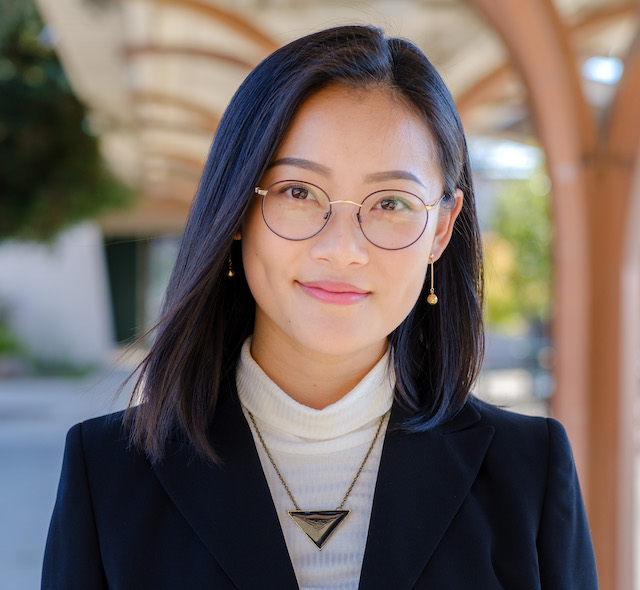
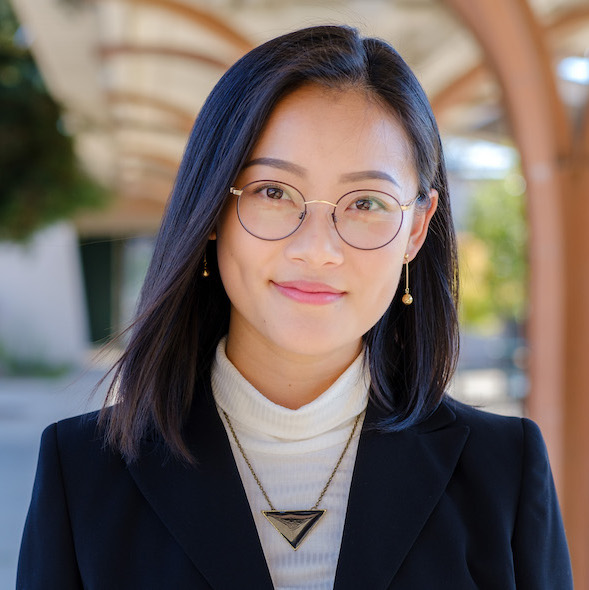
Update speakers and committee member pic

diff --git a/_pages/workshops.md b/_pages/workshops.md
@@ -6,7 +6,9 @@ sidebar:
   nav: "workshops"
 ---
 
-As part of the Learning Track, you can attend hands-on workshops to help you overcome the barriers to making open source contributions. You will have a chance to attend technical and non-technical workshops and walk away with skills you can leverage in open source contributions.
+Open Source Day hands-on workshops are dedicated to help you overcome barriers to contributing to open source. 
+
+You will have a chance to attend technical and non-technical workshops and walk away with skills you can leverage in open source contributions.
 
 
 ## Build production ready data engineering pipeline using Open Source Framework (Kedro)
@@ -23,6 +25,14 @@ Bye-bye Jupyter Notebook! Are you working on a Machine Learning project? Do you 
     Bio: Lingyi is a data engineer @QuantumBlack, AI by Mckinsey. Her primary focus is to build reliable and sustainable data solutions to enable ML and AI across different sectors, such as Basic materials, Telecom, Retail, Pharma. She is passionate about solving data challenges, such as big data, geo-spatial data, time-series data. Her current learning interest is MLOps, DevOps, and DataOps on cloud.
 </details>
 
+## Deploy Your First Smart Contract
+
+<details>
+  <summary>This workshop will be led by: Anastasia Lalamentik</summary>
+
+  <br>
+    Bio: Anastasia Lalamentik
+</details>
 
 ## Don’t Sacrifice Security When Coding Your Next Game-Changing App!
 
@@ -56,7 +66,7 @@ Git is a powerful software development tool that allows people from all over the
 Databases are crucial to modern applications today, and they come in many flavors. Even though they are widely used, like other system software they are often viewed as black boxes. In this workshop, we will take a peek under the covers of a mission-critical enterprise-grade open-source database system and implement a small feature together using test-drive development (TDD), GitHub, and raise a pull request.
 
 <details>
-  <summary>This workshop will be led by: Alexandra Wang</summary>
+  <summary>This workshop will be led by: Alexandra Wang and Ashuka Xue</summary>
 
   <br>
     Bio: Alex is a Software Engineer at VMware. She works on the Greenplum open source MPP database. In the past five years she has worked in many areas of the database kernel, including query optimization and execution, catalog and storage, distributed transaction, partitioning, WAL replication, etc., as well as building tools and infrastructure for CI/CD, performance testing and release engineering. Alex has worked with many teams and has led the query performance acceleration team. She is experienced in cooperating cross-team/cross-geo and is working closely with product managers, engineering managers, field engineers and technical writers. She loves TDD and pair programming. Alex holds an MS in Information Technology from Carnegie Mellon University School of Computer Science.
@@ -65,7 +75,13 @@ Databases are crucial to modern applications today, and they come in many flavor
 
 ## How to Write an Accessible Pull Request
 
-Web accessibility is the practice of making a product or feature usable for as many people as possible. It fosters inclusion and diversity by removing barriers that make it impossible for some people to use the web. Projects tend to perform better with a diverse set of participants. With that being said open source is still facing issues maintaining a diverse set of contributors. A recent study on The <a href="https://linuxfoundation.org/tools/the-2021-linux-foundation-report-on-diversity-equity-and-inclusion-in-open-source/">Diversity, Equity, and Inclusion in Open Source</a>, conducted by the Linux Foundation, showed that 18% of respondents do not feel welcome in open source. A large number of the respondents that did not feel welcome came from disproportionately underrepresented groups, including people with disabilities. This workshop will demonstrate how we as developers can remove barriers and create a more inclusive open source community by adding accessibility into the markdown in a pull request. Markdown is a formatting language that generates semantic html from plaintext and it is used in pull requests to write descriptions and create comments. Writing proper semantic html is critical for accessible users, as it can be easily read by assistive technologies.
+Web accessibility is the practice of making a product or feature usable for as many people as possible. This practice ensures that users with disabilities can perceive, navigate, understand, and interact with websites, tools, and technologies. Web accessibility fosters inclusion and diversity by removing barriers that make it impossible for some people to use the web.
+
+Diversity is an important part of tech because it helps create a culture that welcomes new ideas and brings more perspectives together to solve problems. Projects tend to perform better with a diverse set of participants. With that being said open source are still facing issues maintaining a diverse set of contributors. A recent study on The [Diversity, Equity, and Inclusion in Open Source](https://linuxfoundation.org/tools/the-2021-linux-foundation-report-on-diversity-equity-and-inclusion-in-open-source/), conducted by the Linux Foundation, showed that 18% of respondents do not feel welcome in open source. A large number of the respondents that did not feel welcome came from disproportionately underrepresented groups, including people with disabilities.
+
+This workshop will demonstrate how we as developers can remove barriers and create a more inclusive open source community by adding accessibility into the markdown in a pull request.
+
+Markdown is a formatting language that generates semantic html from plaintext and it is used in pull request to write descriptions and create comments. Writing proper semantic html is critical for accessible users. Because the semantic html generated from markdown reinforces the meaning of information and can be easily read by assistive technologies.
 
 <details>
   <summary>This workshop will be led by: Kendall Gassner and Adrián Bolonio</summary>
@@ -77,10 +93,9 @@ Web accessibility is the practice of making a product or feature usable for as m
     Bio: Adrián Bolonio is an Accessibility Software Engineer working at GitHub as part of a talented, diverse, and motivated team that will work on making GitHub and the Internet a better and more accessible place for everyone. When he is not at the office he enjoys a good read, working his way through any delicious recipe, and indulging his love for travelling to new places.
 </details>
 
-
 ## Overcoming the Fear of Contributing to Open
 
-If you’re feeling uncertain about contributing to an open source project for the first time, I understand. Navigating the open source space can feel intimidating. In this talk, audience members will learn how to confidently navigate the open source space and gain inspiration to make their first contribution.
+If you’re feeling uncertain about contributing to an open source project for the first time, Rizel can relate. Navigating the open source space can feel intimidating. Mentors and managers always advised Rizel to contribute to open source, but it was difficult. She would feel anxious and overwhelmed by the large codebases and the confusing issues. In August 2021, she took a different approach. Instead of spiraling, she started small, read documentation, and interacted with the community. In this talk, Rizel will share funny anecdotes about her failed and successful attempts to contribute to open source. The audience will gain inspiration and confidence to make their first contribution.
 
 <details>
   <summary>This workshop will be led by: Rizel Scarlett</summary>
@@ -101,21 +116,33 @@ Many test automation practices rely on third party, out of the box frameworks as
     Bio: Leila Navon is currently a Senior Engineering Manager at SiriusXM+Pandora. She has 10 years of experience spanning startups to large-cap companies. Leila currently leads a team of test automation engineers driving a culture of shared quality across the engineering organization through pragmatic test automation, influencing manual testing, quality of service, and overall CI/CD confidence. Before her career in tech, she worked as a sound designer on major motion picture films and owned a calligraphy business.
 </details>
 
+## The Open Source Games
+
+Open source ecosystems contain multitudes of people who are critical to the creation, maintenance, distribution, security, and usage of open source software. But depending on whom you talk to, each group will have a different perspective of what makes open source communities tick - sometimes they even talk to each other. And if you're new to open source, this presents a number of confusing obstacles to participation. 
+
+This workshop will help participants see how "the falafel gets made" from the perspective of different open source ecosystem stakeholders. The premise is simple: You have all been called to the White House to discuss a new security issue with the open source supply chain, and the department of Homeland Security is desperate to understand how to address it. Some of you will represent a non-profit software foundation that oversees the governance of a number of affected software communities. Or a lone developer just trying to keep up with the demand. Or in-house legal counsel at a company that uses this software. Or a risk manager from a financial institution. Or the CEO of a startup building products on the affected software. Or the CISO of a cloud vendor that both maintains and uses the software in question. 
+
+From these various perspectives, you will learn about the complexity involved in maintaining the robust innovation that defines open source communities and their respective ecosystems. Is open source the engine of software innovation? Is it a way for startups to market themselves? Is it a grave risk to the daily operations of critical services? And how can we pull together all of these perspectives to achieve our goal of well-functioning software ecosystems?
+
+Workshop attendees will participate in this mock open source problem resolution and develop a more nuanced understanding of the level of effort required to sustain open source software communities.
+
+<details>
+  <summary>This workshop will be led by: Brittany Istenes and John Mark Walker</summary>
+
+  <br>
+    Bio: Brittany Istenes
+  <br><br>
+    Bio: A long-time open source product, community, and ecosystem expert, John Mark has built numerous enterprise software communities, launched new product initiatives, and implemented collaborative processes with internal as well as external stakeholders. A recognized thought leader, he wrote the provocative article "There is no Open Source Community" (http://johnmark.org/tinosc.html) and has spoken at numerous conferences on the subject of open source community engagement and product strategy.
+</details>
+
 
 ## When Design Thinking Meets Open Source
 
 When it comes to open source contributions – design is often a second thought. There is a plethora of innovative open source software that are made with little or no contribution from experienced designers, which often lead to inconsistent interfaces, confusing interactions and ultimately, a poor user experience. When paired together, strong open source projects and human-centered, empathetic design thinking can create software that users can actually use. This session will explore the opportunities for design in open source projects and how developers can exercise a few design practices to influence the adoption and usability of their project. It will examine what experience design is, why it matters, and the principles behind effective design. Attendees will learn through hands-on activities how to incorporate design thinking strategies into their projects without sacrificing design, and how doing so will result in a better product for their users.
 
 <details>
-  <summary>This workshop will be led by: Ramona Sartipi</summary>
+  <summary>This workshop will be led by: Ramona Sartipi and Huda Khan</summary>
 
   <br>
     Bio: Ramona is a lead UX Designer on Watson Assistant at IBM, focused on delivering more value and functionality to cognitive assistants to help client’s businesses grow. She works in a diverse team of designers, engineers and product managers working towards creating user-centric products that provide meaning and purpose in people's everyday lives. Ramona believes that technology has the power to build strong communities and create a more inclusive world. She enjoys empathizing with people and crafting digital experiences that both empower users and boost business growth. Ramona is a proud alumna of the York University, where she earned a degree in Computer Science and Psychology. She was the President of Women in Science and Engineering where she led a team in organizing the largest all-female hackathon in Canada.
 </details>
-
-
-
-> More workshop descriptions for 2022 OSD Coming Soon!
-
-
-

diff --git a/_pages/open-source-day.md b/_pages/open-source-day.md
@@ -8,9 +8,7 @@ sidebar:
 
 2022 GHC Open Source Day will take place virtually on September 16th 2022 from 8am to 3pm US Pacific Time.
 
-Open Source Day (OSD) is an all-day hackathon (including workshops) at [Grace Hopper Celebration](https://ghc.anitab.org/) in which participants of all skill levels learn about Open Source while contributing to projects designed to solve real-world problems.
-
-OSD provides an opportunity for participants of all skill levels and backgrounds to learn and experience open source contributions with the support of project maintainers, experienced mentors, and expert speakers, providing a fast track to becoming open source contributors. 
+Open Source Day (OSD) is an all-day hackathon (including workshops) at [Grace Hopper Celebration](https://ghc.anitab.org/) in which participants of all skill levels learn about open source while contributing to projects designed to solve real-world problems. With the support of project maintainers, experienced mentors, and expert speakers, OSD attendees are on the fast track to becoming open source contributors.
 
 During OSD, participants can join a project on the **Contribution Track** and/or attend one or more workshops from the **Learning track**.
 
@@ -39,12 +37,13 @@ On the Learning Track, participants can attend hands-on workshops to help them o
 
 ## General Questions
 
-##### When is 2022 Open Source Day?
-2022 Open Source Day is on September 16th 2022, 8am to 3pm Pacific Time
+##### When is Open Source Day 2022?
+
+Open Source Day is on September 16, 2022, from 8am to 3pm US Pacific Time.
 
 ##### Is Open Source Day a virtual event or in-person event?  
 
-2022 Open Source Day is a virtual only event
+Open Source Day 2022 is a virtual-only event.
 
 ##### What is the target audience of Open Source Day?
 
@@ -74,7 +73,7 @@ Before the event, all selected project partners are required to take some time t
 
 During the event, we require at least one project representative to be present at all times. A Featured project
  can bring up to 3 representatives and Choose Your Own Adventure projects can bring up to 2 project representatives.
- Among the representatives, you are free to divide up the time (8 am to 3 pm Pacific) to choose who will be available
+ Among the representatives, you are free to divide up the time (8am to 3pm Pacific) to choose who will be available
  at what time.
 
 ##### Can I submit a project with more than one repository?
@@ -84,11 +83,7 @@ Yes! As long as multiple repositories represent one project and project maintain
 
 ##### Can we reject/close out the pull requests that does not meet our project's requirements?
 
-Open Source Day does not give contributors a short-cut to their contributions. All participants will be required to abide
- by project's code of conduct and other guidelines you have set in place. The Open Source Day team do not expect any of
- our project partners to accept/merge any work that does not meet project's standards and expectations. We kindly ask
- you to be mindful that some participants may be new to open source contribution and decide how you want to handle the
- contributions made to your project.
+Open Source Day does not give contributors a shortcut to their contributions. All participants will be required to abide by the project's code of conduct and other guidelines. The Open Source Day team does not expect any of our project partners to accept/merge any work that does not meet the project’s standards and expectations. We kindly ask you to bear in mind that some participants may be new to open source as you decide how to handle the contributions made to your project.
 
 
 ## Mentor Participation Questions
@@ -97,7 +92,7 @@ Open Source Day does not give contributors a short-cut to their contributions. A
 Before the event, all selected mentors will be asked to complete onboarding task(s) to familiarize themselves with
  the assigned project. Time spent may vary based on your experience.
 
-During the event, all mentor are required to be present at all times as they will act as the first line of support for
+During the event, all mentors are required to be present at all times as they will act as the first line of support for
  participants.
 
 
@@ -107,23 +102,14 @@ During the event, all mentor are required to be present at all times as they wil
 Before the event, all selected speakers will need to prepare their content and attend a rehearsal with one or more
  OSD committee members.
 
-During the event, speakers needs to commit ~2 hours. Each workshop is expected to be an hour, but we will ask the
- speakers to join early for production setup and stay around ~30 mins on slack to answer any questions that may be
- asked after the workshop.
+During the event, speakers need to commit approximately 2 hours. Each workshop is expected to be an hour, but we will ask the speakers to join early for production setup and stay after for ~30 minutes to answer questions on Slack.
 
 ##### What topics would be best fit for Open Source Day workshop?
 
-We accept both technical and non-technical content related to open source. Any topic that will allow OSD participants to
- walkaway with a skill they can utilize in open source contribution will be considered as a possible workshop.
- As an example, during 2021 OSD, workshops topics offered includes: GitHub 101, How to make money contributing to
- open source, MLOps, inclusive language in open source, CI/CD, and more!    
+We accept both technical and non-technical content related to open source. Any topic that will allow OSD participants to walk away with a skill they can utilize in open source contribution will be considered as a possible workshop. As an example, during OSD 2021, workshop topics included: GitHub 101, How to make money contributing to open source, MLOps, inclusive language in open source, CI/CD, and more!
 
 
 ## OSD Participant Questions
 ##### I am new to open source, is this event for me?
 
-Yes! Open Source Day is a perfect event for folks who have little to no experience in open source.
- Open Source Day is an event designed to provide a safe place for you to meet open source project maintainers,
- skilled mentors, and code along folks who share the same interest! The Open Source Day team and volunteers will
- be there to guide you through finding issues suited for your skill level and support you throughout the day to
- help you make your first OSS contribution!
+Yes! Open Source Day is a perfect event for folks who have little to no experience in open source. Open Source Day is an event designed to provide a safe place for you to meet open source project maintainers, learn from skilled mentors, and code alongside folks who share the same interest. The Open Source Day team and volunteers will be there to support you throughout the day as you find issues suited to your skill level and make your first OSS contribution!

diff --git a/_pages/committee-members.md b/_pages/committee-members.md
@@ -24,7 +24,7 @@ sidebar:
 
 | [Chris Miyachi](https://www.linkedin.com/in/chris-miyachi-a31835/) | [Emily Hoang](https://www.linkedin.com/in/emily-hoang-865b40102/) | [Joy Joel](https://www.linkedin.com/in/joyjoel/) |
 | --- | --- | --- |
-| <img src="../assets/images/committees/2022/chris_miyachi.jpg" width="200"> | <img src="../assets/images/committees/2022/emily_hoang.jpg" width="200"> | <img src="../assets/images/committees/2022/missing_photo.jpg" width="200"> |
+| <img src="../assets/images/committees/2022/chris_miyachi.jpg" width="200"> | <img src="../assets/images/committees/2022/emily_hoang.jpg" width="200"> | <img src="../assets/images/committees/2022/joy_joel.jpg" width="200"> |
 
 | [Lucy Shen](https://www.linkedin.com/in/lucyjshen/) | [Monica Miyasato](https://www.linkedin.com/in/monicamiyasato/) | [Paula Paul](https://www.linkedin.com/in/paulapaul/) |
 | --- | --- | --- |
